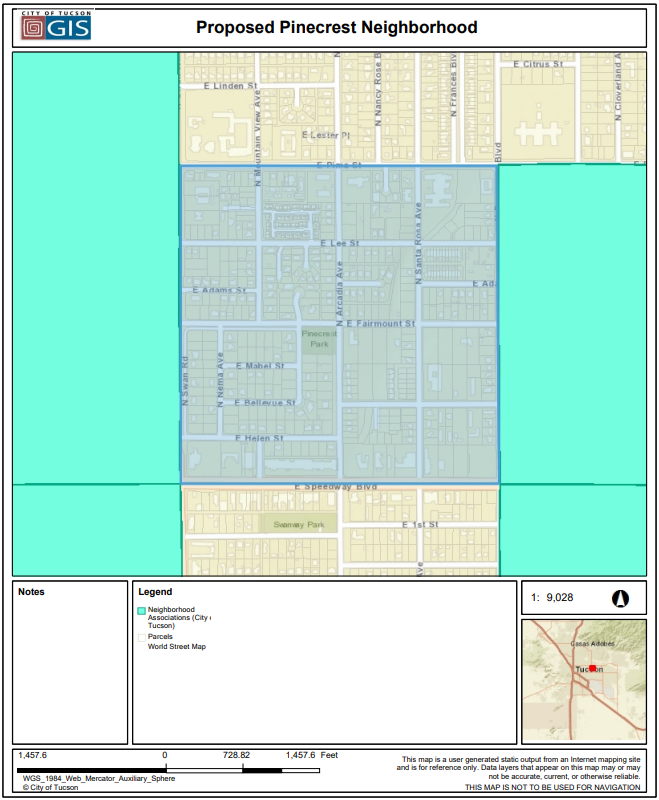
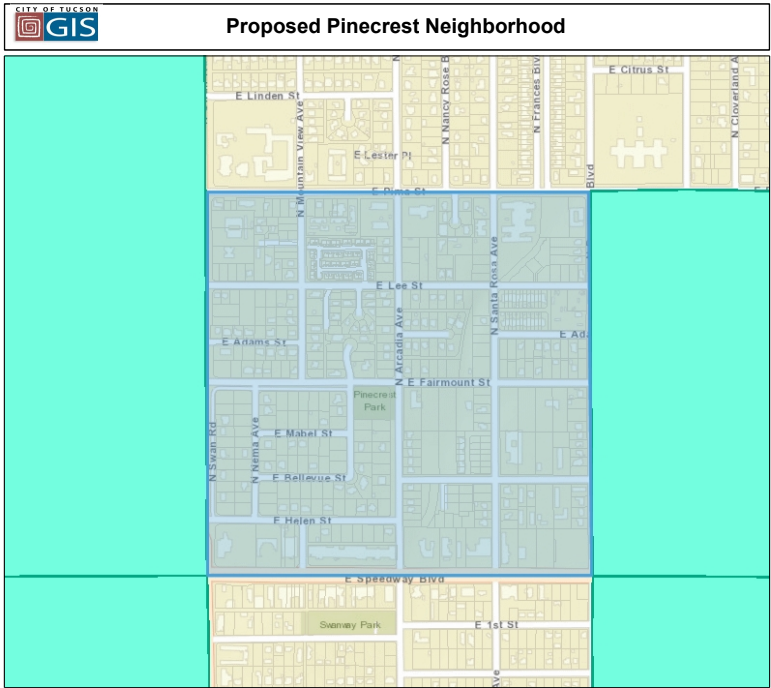
Add draft bylaws

diff --git a/pages/bylaws.html b/pages/bylaws.html
@@ -1,0 +1,161 @@
+<!DOCTYPE html>
+<html lang="en">
+<head>
+  <meta charset="UTF-8">
+  <meta name="viewport" content="width=device-width, initial-scale=1.0">
+  <title>Pinecrest Neighborhood Association</title>
+  <link rel="stylesheet" href="../styles/styles.css">
+</head>
+<body>
+  <header>
+    <h1>Pinecrest Neighborhood Association</h1>
+    <nav>
+      <ul>
+        <li><a href="../index.html">Home</a></li>
+        <li>Bylaws</li>
+      </ul>
+    </nav>
+  </header>
+
+  <main>
+    <h1 id="draft-label">DRAFT</h1>
+    <h1>BYLAWS OF PINECREST NEIGHBORHOOD ASSOCIATION</h1>
+    <p id="purpose">
+      The purpose of our neighborhood association is to create a sense of community and safety by fostering communication, hosting get-togethers, working on neighborhood beautification, advocating for neighborhood improvements, and collaborating with other neighborhoods.
+    </p>
+    <article id="article-1">
+      <h2>ARTICLE I. NAME AND BOUNDARIES</h2>
+      <p>
+        The name of the association shall be Pinecrest Neighborhood. 
+        The association shall encompass the areas bounded on the  
+        <ul>
+          <li>North by E Pima St</li>
+          <li>East by N Rosemont Blvd</li>
+          <li>West by N Swan Rd</li>
+          <li>South by E Speedway Blvd</li>
+        </ul>  
+      </p>  
+    </article>
+    <article id="article-2">
+      <h2>ARTICLE II. MEMBERSHIP</h2>
+      <p>
+        The membership of this association shall be residents, property owners or businesses within the neighborhood.
+      </p>
+      <p>
+        A Voting Member shall be a household or business within the boundaries of the neighborhood. Each household or business within the neighborhood shall be entitled to one vote. Additionally, officers are entitled to a vote.
+      </p>
+      <p>
+        There shall be no dues to be a Voting Member. 
+      </p>
+      <p>
+        Membership shall not be denied on the basis of views or opinions contrary to the goals and purposes of the association.
+      </p>
+      <p>
+        There shall be at least one meeting a year. As a goal, meetings will be held quarterly.
+      </p>  
+    </article>
+    <article id="article-3">
+      <h2>ARTICLE III. OFFICERS</h2>
+      <p>
+        The voting members of the  neighborhood association shall nominate and elect the officers of the association. The officers of this association shall hold office for a term of one (1) year or until successors are elected. The term of office shall begin at the close of the Annual Meeting. The officers of the association shall be President, a Vice President, a Secretary, and a Treasurer. The office of Secretary and Treasurer may be held by the same person or by the vice-president. 
+        The President shall call and preside at all meetings, shall act for and on behalf of the membership of the association, shall appoint any special committees necessary for the operation of the association business and shall act as official spokesperson for the  association.   
+      </p>
+      <p>
+        The Vice President shall, in the absence of the President, assume all of the duties of that office and shall be responsible for publicity and notifications of meetings of the association. 
+      </p>
+      <p>
+        The Secretary shall keep a permanent record of all formal meetings and all legal documents and legal transactions of the association. The secretary shall transcribe the minutes of each meeting and shall maintain a file copy of same and submit a copy of these minutes to  Neighborhood Services. 
+      </p>
+      <p>
+        The Treasurer shall keep all financial receipts and a permanent record of all financial business of the association. An up-to-date financial report shall be submitted at each meeting. The Treasurer shall be responsible for membership. 
+      </p>
+      <p>
+        Any officer can be removed from office by a 2/3 majority vote of the voting membership after a special meeting has been requested at least ten (10) working days in advance. Notice must be provided to all residents for meetings involving the recall of officers.
+      </p>
+    </article>
+    <article id="article-4">
+      <h2>ARTICLE IV. COMMITTEES</h2>
+      <p>
+        Any voting  member can recommend the formation of a committee. The committee must be approved by a majority vote of voting members.
+      </p>
+      <p>
+        The President shall be an ex-officio member of all committees.   
+      </p>
+    </article>
+    <article id="article-5">
+      <h2>ARTICLE V. MEETINGS</h2>
+      <p>
+        An annual meeting shall be held during the month of January at a time and place designated by the President.  
+      </p>
+      <p>
+        Any Voting Member shall have the privilege of petitioning the President for a special meeting at any time. 
+      </p>
+      <p>
+        Five (5) Voting Members present shall constitute a quorum.        
+      </p>
+      <p>
+        At least a five (5) working days notice shall be provided in advance of any association meeting. Every effort will be made to notify all interested parties and members of the Association of upcoming meetings either by phone, e-mail, meeting notices, bulletin boards,  newsletters, Nextdoor, Neighborhood Association website, Ward 6 newsletter or announcements at regularly scheduled meetings. 
+      </p>
+      <p>
+        All meetings shall be public and open to any interested persons.
+      </p>
+    </article>
+    <article id="article-6">
+      <h2>ARTICLE VI. NOMINATION, ELECTIONS, ANNUAL REPORTS AND INSTALLATION OF OFFICERS</h2>
+      <p>
+        Nominations of officers shall be made from the floor at the annual meeting or a slate presented from a nominating committee would also be acceptable.  
+      </p>
+      <p>
+        Election of officers shall be held on the same day as the nominations. 
+      </p>
+      <p>
+        Upon installation of the officers whose terms begin at the close of the Annual Meeting, all documents, records, and any materials pertaining to the duties of the office as designated in the bylaws which are in the possession of the outgoing officers shall be  submitted to the newly elected counterpart within days of the installation.  
+      </p>
+      <p>
+        Any vacancies occurring during the year of any Officer shall  be filled by appointment.   
+      </p>
+    </article>
+    <article id="article-7">
+      <h2>ARTICLE VII. FISCAL RESPONSIBILITY</h2>
+      <p>
+        Expenditure of funds of the association may not be made without the signatures of at least one of the Officers and the Treasurer. 
+      </p>
+      <p>
+        Financial records and funds of the association shall be audited at least once a year by a committee of at least two (2) Voting Members appointed by the President prior to a new Treasurer's taking office.   
+      </p>
+    </article>
+    <article id="article-8">
+      <h2>ARTICLE VIII. AMENDMENT OF BYLAWS</h2>
+      <p>
+        These bylaws may be amended by a 2/3 vote of Voting Members in attendance. 
+      </p>
+      <p>
+        Proposed amendments shall be sent to all Voting Members at least ten (10) working days in advance of the meeting where action is to be taken or shall be read at the presiding meeting.           
+      </p>
+    </article>
+    <article id="article-9">
+      <h2>ARTICLE IX. GENERAL</h2>
+      <p>
+        If any part of these Bylaws or the application thereof is hereafter held invalid or unenforceable, the remainder shall not be affected thereby, and only the affected portions are declared eliminated. 
+      </p>
+      <p>
+        No officer, representative, spokesperson or member shall have any financial liability of the association. 
+      </p>
+      <p>
+        The association Community Guidelines and Anti-Harassment Policy shall be followed for all meetings and events.
+      </p>
+    </article>
+    <h1 id="draft-label">DRAFT</h1>
+</main>
+
+  <footer>
+    &copy; 2024 by Pinecrest Neighborhood Association, Tucson, AZ. <br/>
+    This website licensed under the <a href="https://opensource.org/license/mit/">MIT License</a>. <br/>
+    Contact us at <a href="mailto:info@pinecrest-na.org">info@pinecrest-na.org</a>.
+  </footer>
+
+  <!-- Uncomment to add JavaScript 
+  <script src="script.js"></script>
+  -->
+</body>
+</html>

diff --git a/index.html b/index.html
@@ -11,7 +11,8 @@
     <h1>Pinecrest Neighborhood Association</h1>
     <nav>
       <ul>
-        <li><a href="index.html">Home</a></li>
+        <li>Home</li>
+        <li><a href="pages/bylaws.html">Bylaws</a></li>
       </ul>
     </nav>
   </header>
@@ -22,14 +23,11 @@
     <p>
         We are neighbors in the process of forming a neighborhood association in Tucson, Arizona. We welcome your participation!
     </p>
-    <p>
-        Please fill out our survey to help us understand what you would like to see in our neighborhood association. <a href="https://bit.ly/pinecrest-survey">Click here to take the survey</a>.
-    </p>
     <h2>Where are we located?</h2>
     <p>
         We are located in the Pinecrest neighborhood, which is bounded by E Pima St on the north, E Speedway Blvd on the south, N Swan Rd on the west, and N Rosemont Blvd on the east.
     </p>
-    <img src="images/map.png" alt="Map of Pinecrest neighborhood">
+    <img id="pinecrest-map" src="images/map.png" alt="Map of Pinecrest neighborhood">
     <h2>What is a neighborhood association?</h2>
     <p>
         A neighborhood association is a group of neighbors who work together to improve and maintain the quality of life in their neighborhood. Neighborhood associations are recognized by the City of Tucson and can be a powerful voice for the neighborhood.

diff --git a/styles/styles.css b/styles/styles.css
@@ -24,11 +24,17 @@ nav > ul {
     padding: 0;
 }
 
+nav > ul > li {
+    display: inline;
+    color: black;
+    padding: 0 3px;
+}
+
 main {
     padding: 0 10px;
 }
 
-main > p {
+p {
     font-family: sans-serif;
     font-size: 1.2em;
     text-align: justify;
@@ -39,9 +45,27 @@ main > ul > li {
     font-size: 1.2em;
 }
 
+main > article > ul > li {
+    font-family: sans-serif;
+    font-size: 1.2em;
+}
+
 footer {
     background-color: lightgreen;
     color: black;
     padding: 5px;
     text-align: justify;
+}
+
+#pinecrest-map {
+    display: block;
+    height: 350px;
+}
+
+#draft-label {
+    color: red;
+}
+
+#purpose {
+    font-style: italic;
 }
